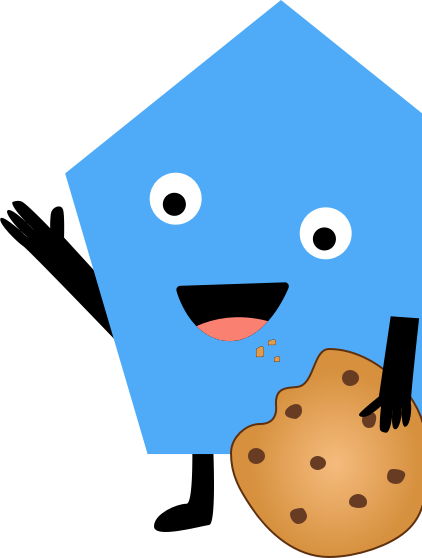
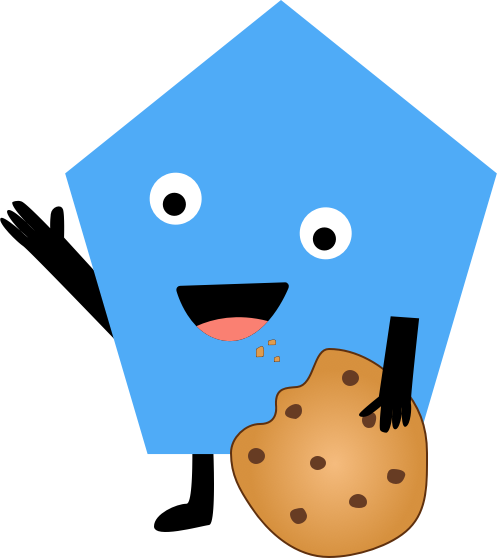
Updates characters and Text

diff --git a/index.html b/index.html
@@ -11,15 +11,17 @@
 		<div class="wrapper">
 			<h4>Reeshni from <a href="https://d-n.io">Digital Natives</a> presents</h4>
 			<h1>The Silliest &amp;<br/>
-				Most Awesome Gang<br/>
+				Most Awesome Design Gang<br/>
 				In The World!</h1>
-				<h3>It's Circle Guy, Hat Guy &amp; Red Guy.<br/>
+				<h3>It's Circle Cake Girl, Dream Journal <br/> 
+				Hat Guy, Cookie Girl &amp; Moustache Guy. <br/> 
 				They're the best of friends.</h3>
 				<a class="cta alt" href="#more-info">Read More</a> 
 		</div>
 		<div class="character1"></div>
 		<div class="character2"></div>
 		<div class="character3"></div>
+		<div class="character4"></div>
 	</div>
 	<div id="more-info"></div>
 	<nav>
@@ -41,20 +43,20 @@
 	<div class="story" id="story">
 		<div class="wrapper">
 			<ul class="nb-list">
-				<li class="blue">Rock 'n Roll</li>
+				<li class="blue">Doggies</li>
 				<li class="gray">&nbsp;</li>
-				<li class="yellow dragging">Laughter</li>
-				<li class="red">Square Offs</li>
-				<li class="pink">Cicuitious Routes</li>
-				<li class="salmon">Trigonometry</li>
+				<li class="yellow dragging">Roasting Each Other</li>
+				<li class="red">Drinking</li>
+				<li class="pink">Designing</li>
+				<li class="salmon">Movie Reviews</li>
 				<li class="blue">Rad Hats</li>
-				<li class="yellow">Being Silly</li>
+				<li class="yellow">Naming Layers</li>
 			</ul>
 			<h3>Left: Things We Find Important <br/>
 			Below: Our Story</h3>
-			<p>Once upon a time there was a group of shapes. They were mostly black and rectangular. They were mean and very serious.</p>
+			<p>Once upon a time there was a group of shapes. They were mostly #FFFFFF and rectangular. They were mean and very serious.</p>
 			<p>And so they kicked the 3 shapes that didn’t conform out of their gang, which was called the Right Angled Gang.</p>
-			<p>And so, these shapes were very sad, but found great joy and comfort being around each other. They soon started having a lot of fun, started rocking and rolling, started being silly, and became the most well-known shape gang in the universe.</p>
+			<p>And so, these shapes were very sad, but found great joy and comfort being around each other. They soon started having a lot of fun, started drinking and designing, reviewing movies and tv shows, and became the most well-known shape gang in the universe.</p>
 			<p>They even started making fun of squares and rectangles in what they like to call ‘Square Offs’!</p>
 		</div>
 	</div>

diff --git a/style.css b/style.css
@@ -65,29 +65,39 @@ p{
 }
 
 .character1{
-	background: url(characters/1 .png) no-repeat 0 0;
+	background: url(characters/1.png) no-repeat 0 0;
 	background-size: 100%;
 	width: 363px;
 	height: 344px;
-	position: absolute; top: 10%; right: 10%;
-	transform: rotate(15deg);
+	position: absolute; top: 6%; right: 12%;
+	transform: rotate(8deg);
 }
 
 .character2{
 	background: url(characters/2.png) no-repeat 0 0;
 	background-size: 100%;
-	width: 309px;
+	width: 388px;
 	height: 371px;
-	position: absolute; top: 213px; right: 277px;
+	position: absolute; top: 240px; right: 250px;
 }
 
 .character3{
-	background: url(characters/3 .png) no-repeat 0 0;
+	background: url(characters/3.png) no-repeat 0 0;
 	background-size: 100%;
 	width: 297px;
 	height: 286px;
-	position: absolute; bottom: 74px; right: 109px;
+	position: absolute; bottom: 80px; right: 90px;
 }
+
+
+.character4{
+	background: url(characters/4.png) no-repeat 0 0;
+	background-size: 100%;
+	width: 262px;
+	height: 300px;
+	position: absolute; bottom: 200px; right: 8px;
+}
+
 
 a.cta,
 button.cta{
